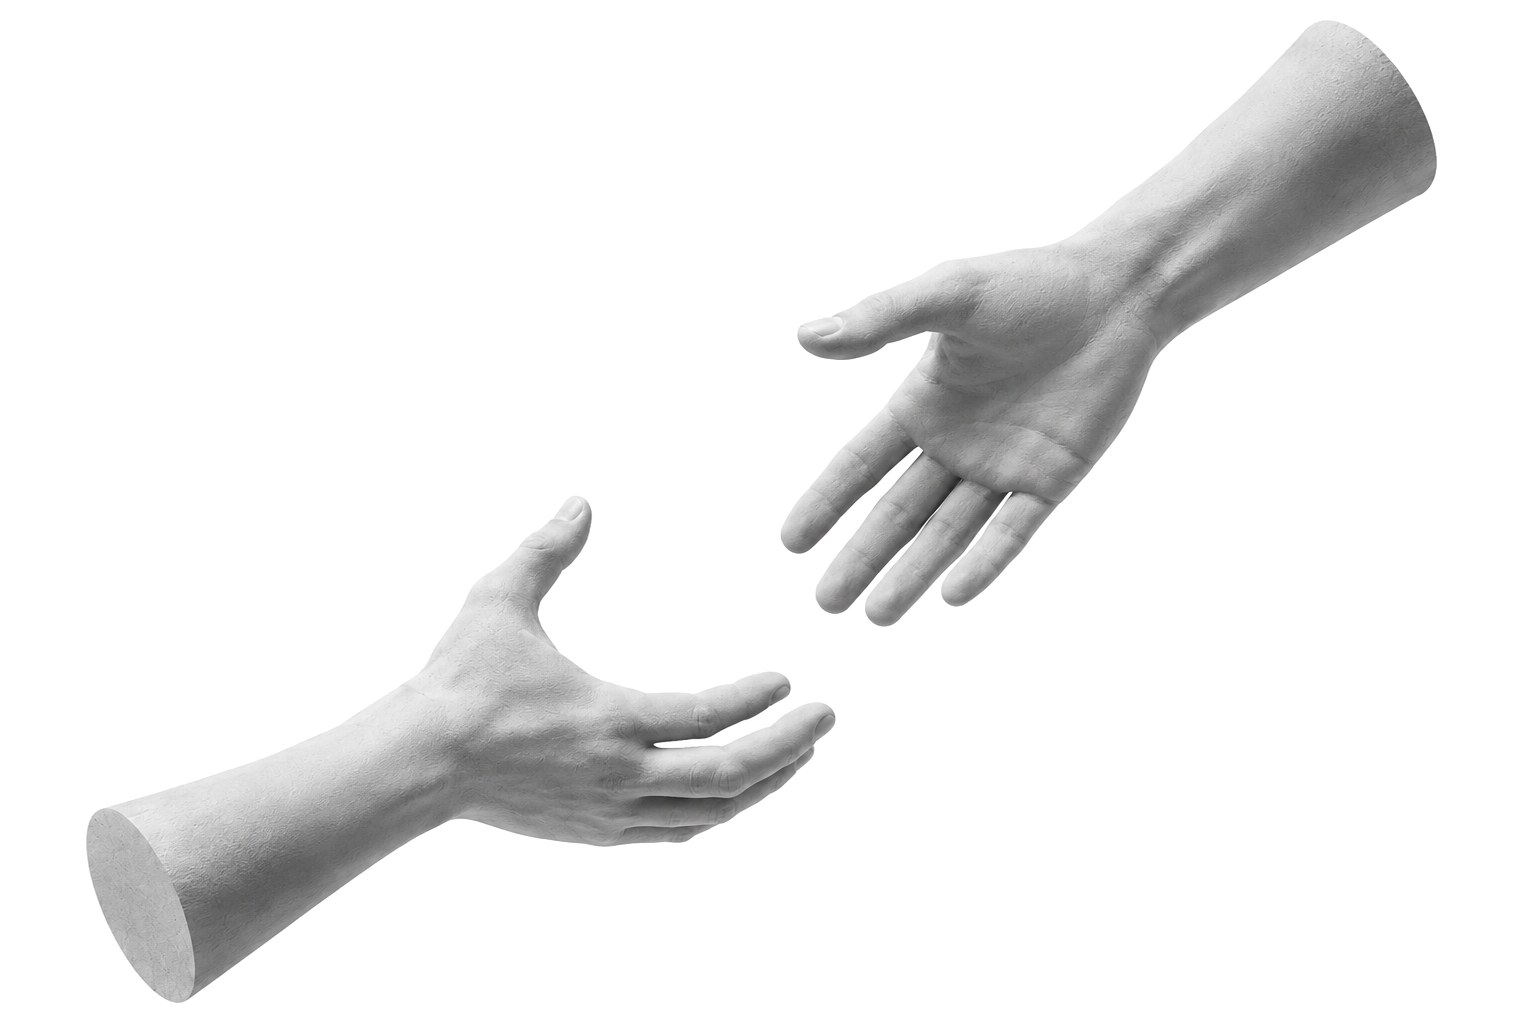
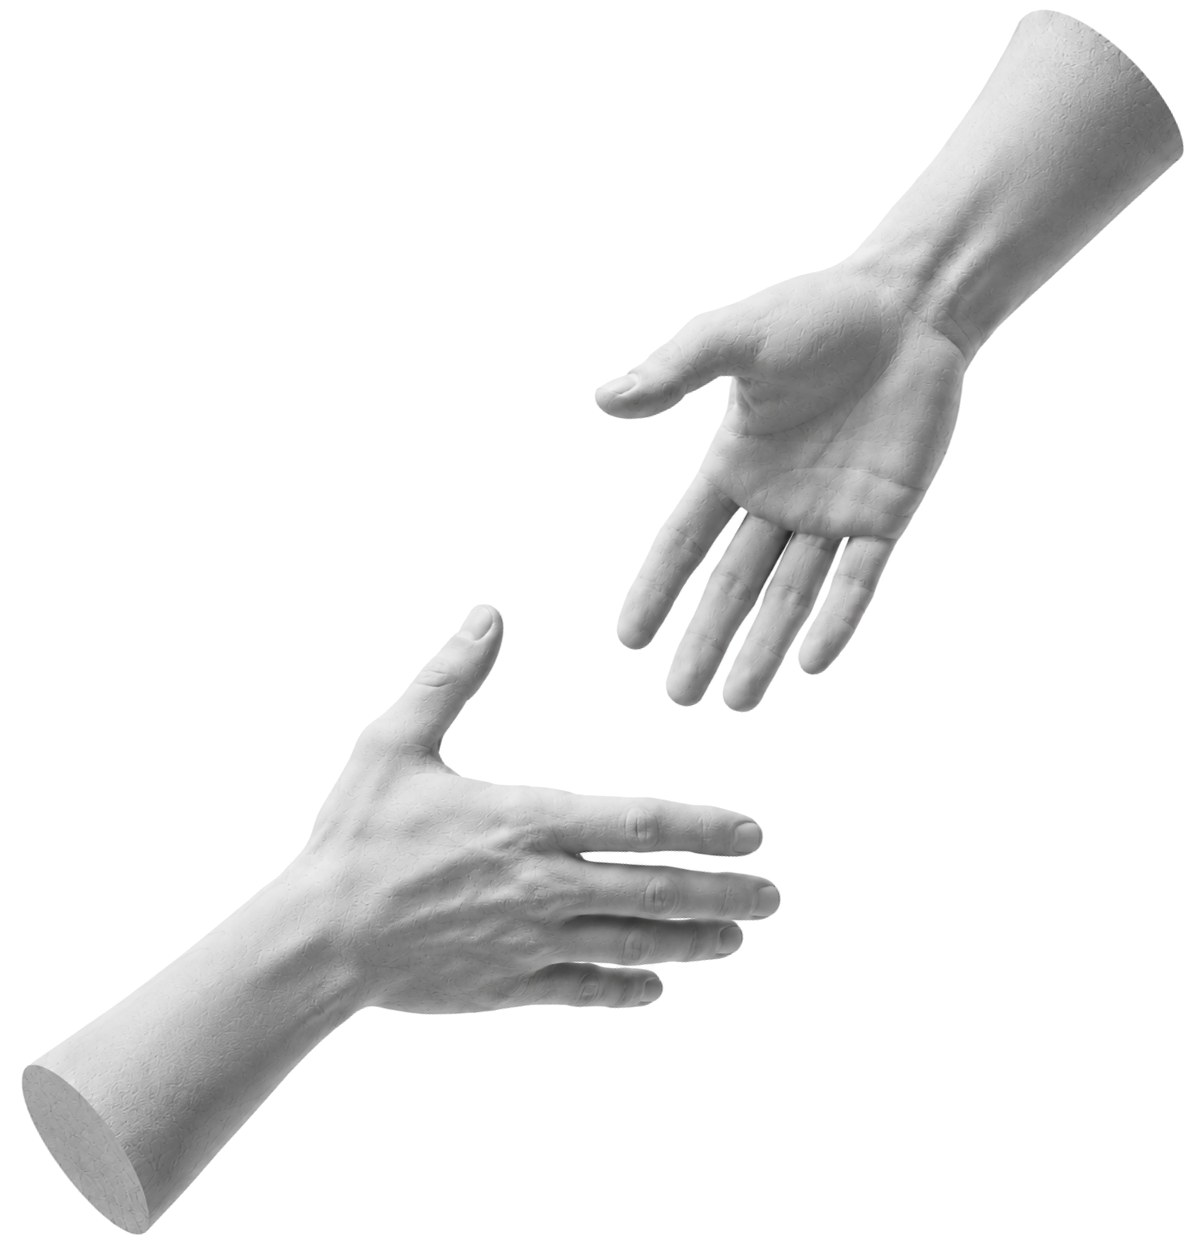
Hero: nova slika ruku, popunjava visinu od navigacije do trake
Claude-Session: https://claude.ai/code/session_01LC9PoTNu1dy92LMbxbuWCd

Changed region(s): [[0.0, 0.0, 0.99, 1.0], [0.8972, 0.1875, 0.9281, 0.2188], [0.8662, 0.2188, 0.8972, 0.25]]

diff --git a/index.html b/index.html
@@ -29,8 +29,8 @@
           </h1>
           <div class="hero-icon hero-hands">
             <picture>
-              <source type="image/webp" srcset="assets/img/hands-sm.webp 768w, assets/img/hands.webp 1536w" sizes="(min-width: 901px) 62vw, 0px">
-              <img src="assets/img/hands.jpg" width="1536" height="1024" alt="Dve bele ruke od kamena koje se pružaju jedna ka drugoj" fetchpriority="high">
+              <source type="image/webp" srcset="assets/img/hands-sm.webp 598w, assets/img/hands.webp 1196w" sizes="(min-width: 901px) 45vw, 0px">
+              <img src="assets/img/hands.jpg" width="1196" height="1241" alt="Dve bele ruke od kamena koje se pružaju jedna ka drugoj" fetchpriority="high">
             </picture>
           </div>
         </div>

diff --git a/assets/css/style.css b/assets/css/style.css
@@ -1255,7 +1255,11 @@ main > .section.on-dark:last-child { border-radius: var(--r-lg) var(--r-lg) 0 0;
   inset: 0;
   width: 100%;
   height: 100%;
-  object-fit: cover;
+  object-fit: contain;
   object-position: right center;
   mix-blend-mode: multiply; /* bela pozadina slike se stapa sa stranicom */
 }
+
+/* providno dugme iznad slike ruku dobija belu pozadinu */
+.hero .btn--ghost { background: var(--white); }
+.hero .btn--ghost:hover { background: var(--black); }
